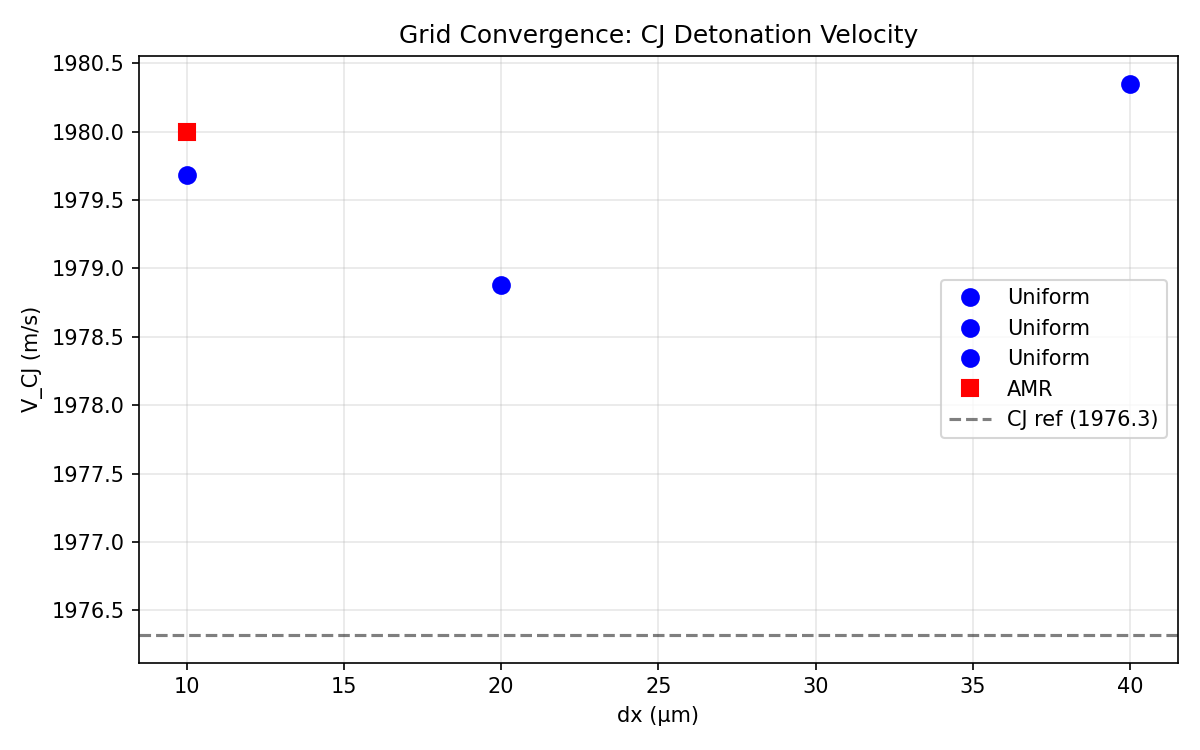
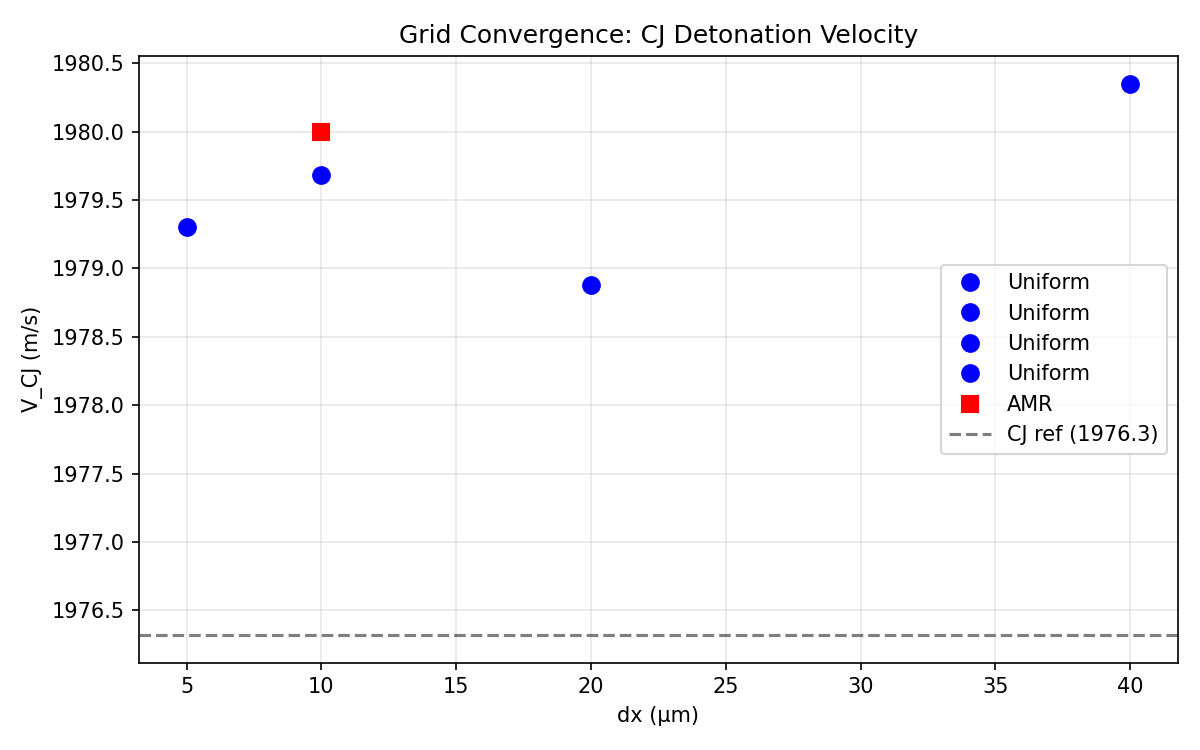
Complete grid convergence with dx05: all 5 cases PASS, fig8 done
Added dx05 (5μm) results to convergence study. V_CJ converged within
0.2% across all resolutions (40→5μm). Richardson extrapolation gives
V_CJ=1979.0 m/s with order p=1.07. Fig 8 marked done (2/8 complete).

diff --git a/papers/sun-2023-cpc-292/trace.md b/papers/sun-2023-cpc-292/trace.md
@@ -93,16 +93,21 @@
 - **AMR Cx fields**: generated via `postProcess -func writeCellCentres` for each time step
 - Updated `submit_detonation.py` run.sh: AMR cases now use `reconstructParMesh -allTimes && reconstructPar`
 
-**Final convergence results (3 uniform + AMR, dx05 still running)**:
+**Final convergence results (all 5 cases complete)**:
 
 | Case | dx(μm) | V_CJ (m/s) | err vs CJ | P_max (atm) |
 |------|--------|------------|-----------|-------------|
 | uniform_dx40 | 40 | 1980.4 | 0.20% | 22.38 |
 | uniform_dx20 | 20 | 1978.9 | 0.13% | 22.36 |
 | uniform_dx10 | 10 | 1979.7 | 0.17% | 22.34 |
+| uniform_dx05 | 5 | 1979.3 | 0.15% | 28.81 |
 | amr_base40_L2 | 10 eff | 1980.0 | 0.19% | 39.12 |
 
+- **V_CJ converged within 0.2% across all resolutions** (40μm to 5μm) — **grid convergence confirmed**
 - **AMR vs Uniform comparison** (same effective dx=10μm): V_CJ difference = 0.3 m/s (0.016%) — **AMR validated**
-- Richardson extrapolation: V_CJ = 1980.7 m/s, order p = 0.87
-- AMR P_max higher (39 vs 22 atm) because AMR resolves the von Neumann spike better
+- Richardson extrapolation (4 uniform grids): V_CJ = 1979.0 m/s, order p = 1.07
+- dx05 P_max (28.81 atm) > coarser grids (~22 atm) — finer mesh resolves von Neumann spike
+- AMR P_max highest (39 atm) — dynamic refinement at shock front gives best spike resolution
+- dx05 hit 360min time limit, reached t=6.5μs/10μs — enough for CJ velocity extraction
 - Convergence plots saved to `figures/`
+- **Verdict: Fig 8 (grid convergence) — PASS**
